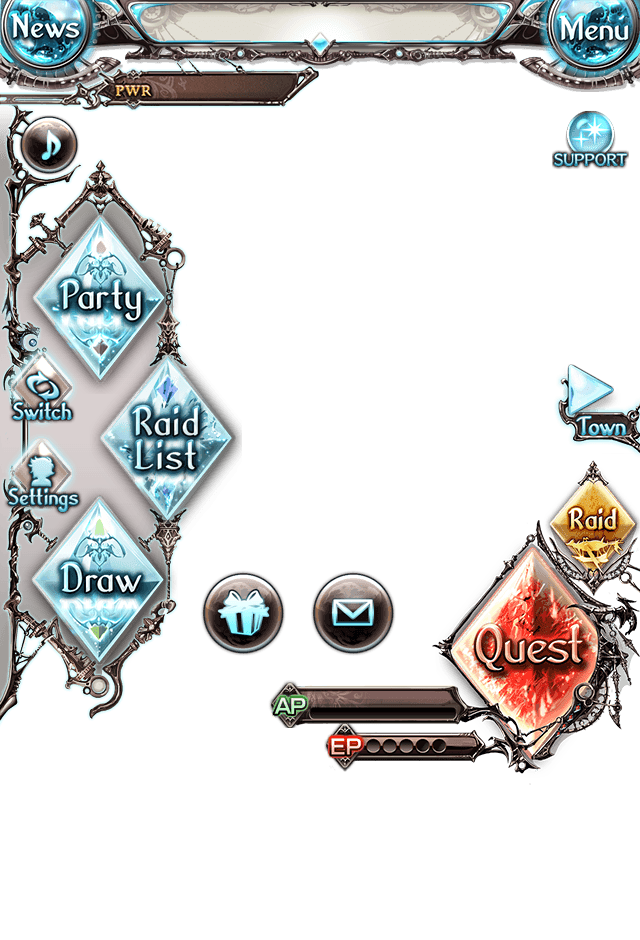
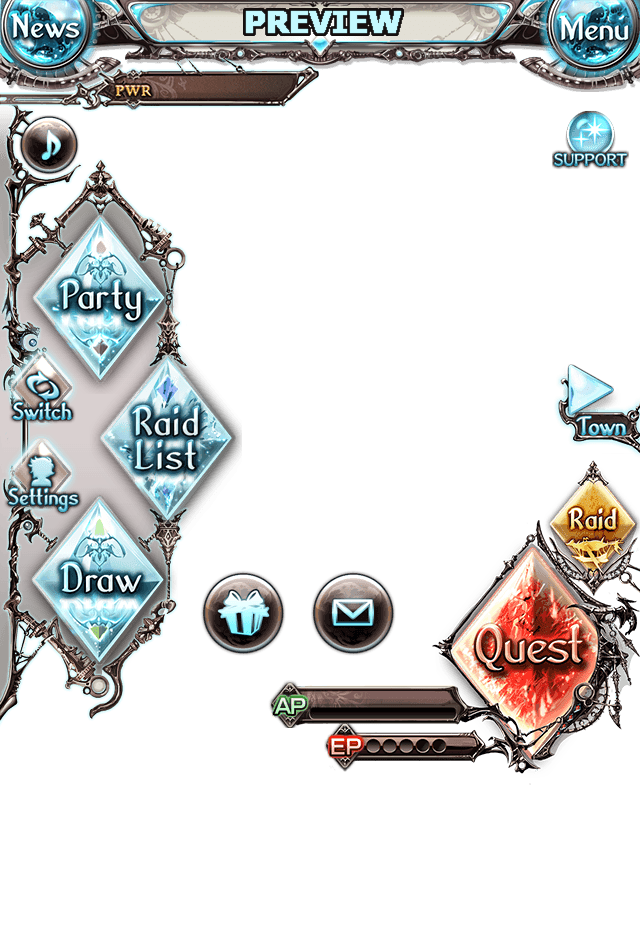
7.18 home preview toggle

Changed region(s): [[0.375, 0.0, 0.625, 0.0617]]

diff --git a/js/script.js b/js/script.js
@@ -45,6 +45,7 @@ var updated = []; // list of recently updated elements (loaded from changelog.js
 var intervals = []; // on screen notifications
 var typingTimer; // typing timer timeout
 var audio = null; // last played audio
+var previewhome = false; // preview for home art flag
 
 function getMainEndpoint() // return one of the endpoint, one after the other (to benefit from the sharding)
 {
@@ -183,7 +184,6 @@ function loadIndexed(id, obj, indexed=true) // load an element from data.json
                     search_type = 2;
                     break;
                 case '3':
-                    console.log(id[1]);
                     switch(id.slice(0, 3))
                     {
                         case '399':
@@ -402,6 +402,15 @@ function loadIndexed(id, obj, indexed=true) // load an element from data.json
             };
             
             let div = addResult(asset[0], asset[0], (indexed ? files.length : 0));
+            if(is_home)
+            {
+                let img = document.createElement("img");
+                img.src = "assets/ui/switch.png";
+                img.classList.add("clickable");
+                img.classList.add("switch-btn");
+                img.onclick = togglePreview;
+                div.appendChild(img);
+            }
             for(let file of files)
             {
                 if(!asset[6] && (file.endsWith('_f') || file.endsWith('_f1'))) continue;
@@ -425,13 +434,14 @@ function loadIndexed(id, obj, indexed=true) // load an element from data.json
                 img.onerror = function() {
                     let result = this.parentNode.parentNode;
                     this.parentNode.remove();
+                    let n = (this.classList.contains("homepage") ? 3 : 2);
                     this.remove();
-                    if(result.childNodes.length <= 2) result.remove();
+                    if(result.childNodes.length <= n) result.remove();
                 };
                 img.onload = function() {
                     this.classList.remove("loading");
                     this.classList.add("asset");
-                    if(this.classList.contains("homepage")) // set homepage classes if this class if present
+                    if(this.classList.contains("homepage") && previewhome) // set homepage classes if this class if present
                     {
                         this.classList.remove("homepage");
                         this.classList.add("homepage-bg");
@@ -964,6 +974,25 @@ function addResult(identifier, name, file_count = 0)
         result_area.appendChild(div);
         return div;
     }
+}
+
+function togglePreview()
+{
+    const homepageElements = document.querySelectorAll(".homepage, .homepage-bg");
+
+    homepageElements.forEach(e => {
+        if (!previewhome) {
+            e.classList.remove("homepage");
+            e.classList.add("homepage-bg");
+            e.parentNode.classList.add("homepage-ui");
+        } else {
+            e.classList.remove("homepage-bg");
+            e.parentNode.classList.remove("homepage-ui");
+            e.classList.add("homepage");
+        }
+    });
+
+    previewhome = !previewhome;
 }
 
 // =================================================================================================

diff --git a/css/style.css b/css/style.css
@@ -70,6 +70,14 @@ summary {
     visibility: visible;
 }
 
+.switch-btn
+{
+    position: absolute;
+    top: 0px;
+    left: 0px;
+    width: 50px;
+}
+
 button {
     background: url(../assets/ui/button_bg.png) no-repeat;
     background-size: 100% 100%;
@@ -199,6 +207,7 @@ small {
     border-radius: 10px;
     margin: 1em;
     border-style: solid;
+    position: relative;
 }
 
 .result-header {
@@ -262,8 +271,8 @@ h3 {
 }
 
 .homepage-ui {
-    width: 238.297px;
-    height: 350px;
+    width: 400px;
+    height: 588.430px;
     white-space: nowrap;
 }
 
@@ -272,13 +281,16 @@ h3 {
     content: '';
     background: url(../assets/ui/home_ui.png) no-repeat;
     background-size: 100% 100%;
-    width: 238.297px;
-    height: 350px;
+    width: 400px;
+    height: 588.430px;
 }
 
 .homepage-bg {
     background: url(../assets/ui/home_bg.jpg) no-repeat;
-    background-size: 238.297px 350px;
+    background-size: 400px 588.430px;
+    max-height: 588.430px;
+    width: 400px;
+    height: 588.430px;
 }
 
 a:link {
@@ -352,6 +364,11 @@ a:active {
         font-size: 33px;
     }
 
+    .switch-btn
+    {
+        width: 100px;
+    }
+
     button {
         width: 330px;
         height: 60px;
@@ -409,6 +426,25 @@ a:active {
         max-width: min(350px, 50%);
         max-height: 350px;
         background: url(../assets/ui/skycompass.png) no-repeat bottom left 0% / 25%;
+    }
+
+    .homepage-ui {
+        width: 605px;
+        height: 890px;
+    }
+
+    .homepage-ui:before {
+        background-size: 100% 100%;
+        width: 605px;
+        height: 890px;
+    }
+
+    .homepage-bg {
+        background-size: 605px 890px;
+        max-width: 605px;
+        max-height: 890px;
+        width: 605px;
+        height: 890px;
     }
 
     #favorite {

diff --git a/index.html b/index.html
@@ -24,7 +24,7 @@
 <body onload="init()">
     <a id="to-title" href="index.html"><img id="titleheader" src="assets/ui/header.png" alt="header"></a>
     <div id="header">
-        <div>v7.17</div>
+        <div>v7.18</div>
         <div id="timestamp">Last update</a>:</div>
     </div>
     <div id="to-bottom" class="clickable" onclick="window.scroll(0, document.body.scrollHeight);"><img src="assets/ui/button.png"></div>
